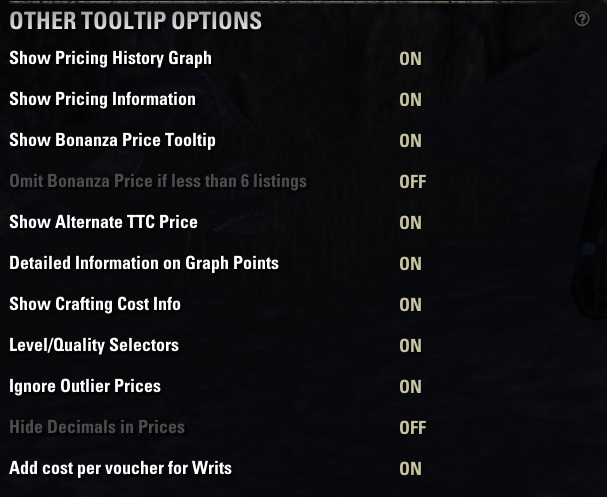
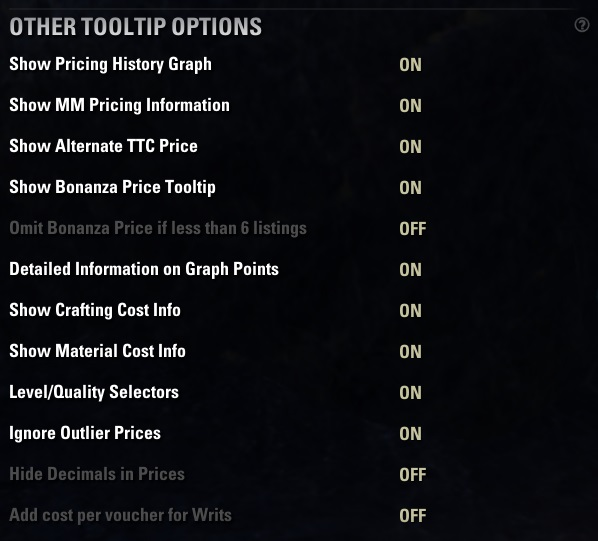
Update menu screen shots and text

diff --git a/3-master_merchant.html b/3-master_merchant.html
@@ -710,10 +710,11 @@ title: Master Merchant
 <p>{% include image.html file="img/lgs_sales_management.jpg" alt="lgs_sales_management" %}</p>
 <p class="empty">&nbsp;</p>
 <p class="list-1">&bull;&nbsp; <font class="tan">Use Sales History Size Only</font>: This will ignore the minimum and maximum count for sales. If there are 4698 sales of an item with the day range selected for retaining data, then the sales will not be trimmed.</p>
+<p class="list-1">&bull;&nbsp; <font class="tan">Minimal Indexing</font>: Does not add search words for items. It only adds the player search word for displaying personal sales. Searching in the Master merchant window is still possible but will take extra time.</p>
 <p class="list-1">&bull;&nbsp; <font class="tan">Sales History Size</font>: The days range to retain data.</p>
 <p class="list-1">&bull;&nbsp; <font class="tan">Min Item Count</font>: The minimum count of sales for a specific item before the days range is considered. If you select 90 days to retain data, but you have seen only 1 sale and the only recorded sale is 120 days old it will not be trimmed.</p>
 <p class="list-1">&bull;&nbsp; <font class="tan">Max Item Count</font>: The maximum count of sales for a specific item before the days range is considered. If you select 90 days to retain data, and you choose 1000, then the oldest sale once the threshold is reached will be trimmed. Meaning if you have 1001 sales for an item, 1 will be trimmed and 1000 will remain.</p>
-<p class="list-1">&bull;&nbsp; <font class="tan">Minimal Indexing</font>: Does not add search words for items. It only adds the player search word for displaying personal sales. Searching in the Master merchant window is still possible but will take extra time.</p>
+<p class="list-1">&bull;&nbsp; <font class="tan">Min Sales Interval</font>: When this value is greater then 0 the Min item count and the sales interval (in Days) will be considered first before truncating. If the interval is set to 10 days and the sale is less then 10 days old the sale will be retained the same as a sale below the Min Item Count.</p>
 <p class="empty">&nbsp;</p>
 <h3 class="header3" id="DataManagementOptions">3.14.2.2 - Data Management Options</h3>
 <p class="empty">&nbsp;</p>
